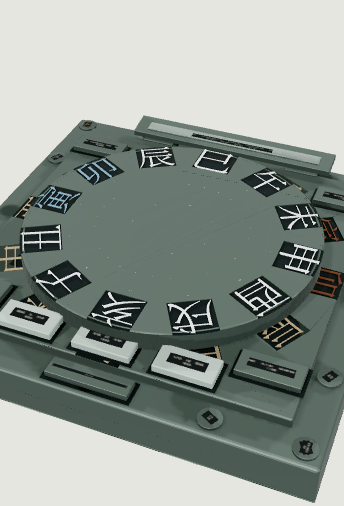
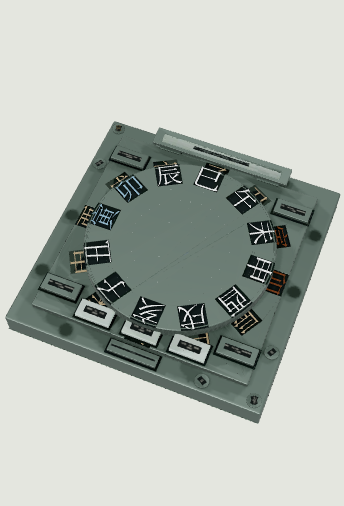
docs: record artifact verification round three

diff --git a/.superpowers/sdd/2026-08-29-daliuren-artifact-legibility-and-motion-redesign/task-8-report.md b/.superpowers/sdd/2026-08-29-daliuren-artifact-legibility-and-motion-redesign/task-8-report.md
@@ -2,14 +2,14 @@
 
 Date: 2026-08-30 (Asia/Shanghai)
 
-Status: COMPLETE after independent-review repair rounds 1–2/5. Graybox, master, baked authoring atlases, KTX2 runtime LODs, 15 review renders, three committed pure-canvas LOD captures, and benchmark evidence were verified from their generating sources. Every final automated gate passes. Round 2 changed runtime measurement/evidence and validation code only; no model or texture rebake was needed and no generated binary was patched directly.
+Status: COMPLETE after independent-review repair rounds 1–3/5. Graybox, master, baked authoring atlases, KTX2 runtime LODs, 15 review renders, three committed pure-canvas LOD captures, and benchmark evidence were verified from their generating sources. Every final automated gate passes. Rounds 2–3 changed runtime measurement, framing, evidence, and validation code only; no model or texture rebake was needed and no generated binary was patched directly.
 
 ## Outcome and final rulings
 
 - Graybox/master split: graybox contains exactly the 24 functional branch glyphs/beds; master adds all 47 historical inscriptions, for 71 inscriptions total. Graybox is 25,022 triangles against the fixed 35,000 ceiling. Runtime LOD budgets were not relaxed.
 - Static stage legibility: the calendar stage visibly raises the rear calendar slip into its two supports; the plate stage visibly rotates the heaven inscription ring by 60 degrees relative to the fixed earth ring. Four lessons and the initial/middle/final/method transmissions are separate, narrow, thick slips in individual shallow seats. They no longer form continuous wings, front panels, or a method rail.
-- Projection: `ArtifactSceneController` projects every actual branch-mesh vertex after its world transform. It no longer projects a world AABB, and `ArtifactExperience` exposes the raw floating-point minimum rather than a rounded integer. Floors remain desktop 20 CSS px and mobile 18 CSS px; final settled values are LOD0 `29.26424553334844 px`, LOD1 `20.012207523729835 px`, and LOD2 `19.488450529944718 px`. A unit fixture proves `19.99` cannot pass the desktop floor.
-- Camera ruling: the original 49.6 mm functional glyphs, 194/164 mm ring radii, plate sizes, and target `[0, 0.05, 0]` remain unchanged. An uncommitted 71 mm glyph / 149 mm ring experiment was stopped and fully reverted. With true-vertex and raw-float measurement, the prior default camera left LOD1 at `19.920843395738405 px`; moving the camera 0.5% closer along the same sightline still produced `19.99549609011798 px` and correctly failed. The minimal total move was therefore 0.6%, from `[0.31, 0.73, 0.77]` to `[0.3081, 0.7259, 0.7654]`. It passes without changing the view direction, glyph geometry, thresholds, protected subject areas, or callout guards. The two under-floor trials cost two additional focused browser runs and prevented a false rounded pass.
+- Projection: `ArtifactSceneController` projects every actual branch-mesh vertex after its world transform. It no longer projects a world AABB, and `ArtifactExperience` exposes the raw floating-point minimum rather than a rounded integer. Floors remain desktop 20 CSS px and mobile 18 CSS px; final settled values are LOD0 `29.26424553334844 px`, LOD1 `20.012207523729835 px`, and LOD2 `19.124706775338232 px`. A unit fixture proves `19.99` cannot pass the desktop floor. A second true-vertex metric requires every one of the 24 glyph meshes to stay at least 4 CSS px inside the canvas; the final LOD2 minimum is `56.59019821387625 px`.
+- Camera ruling: the original 49.6 mm functional glyphs, 194/164 mm ring radii, plate sizes, and desktop target `[0, 0.05, 0]` remain unchanged. An uncommitted 71 mm glyph / 149 mm ring experiment was stopped and fully reverted. With true-vertex and raw-float measurement, the prior default camera left LOD1 at `19.920843395738405 px`; moving the camera 0.5% closer along the same sightline still produced `19.99549609011798 px` and correctly failed. The minimal desktop move was therefore 0.6%, from `[0.31, 0.73, 0.77]` to `[0.3081, 0.7259, 0.7654]`. It passes without changing the view direction, glyph geometry, thresholds, protected subject areas, or callout guards. Round 3 proved that distance-only portrait moves of 5%, 8%, and 10% could not simultaneously contain the base and preserve 18 px glyph projection. The smallest verified portrait-only framing uses the same azimuth, a 60 degree elevation, 1.56 times distance, and a 16 mm camera-plus-target lateral shift; FOV, aspect, object geometry, and desktop framing remain unchanged. It preserves visible sidewall thickness, yields LOD2 `19.124706775338232 px`, and gives subject CSS margins `6 / 4 / 122.09 / 83.06 px` left/right/top/bottom. The rejected trials cost focused browser runs but prevented both a false rounded pass and a cropped mobile deliverable.
 - Runtime dark-sector ruling: the near-black fan was not AO or KTX damage. Runtime raycasts identified the underside triangle of `plate/heaven`; the timeline rotated an exported XZ plate around Z, flipping its underside toward the camera. In-plane rotation is now around Y. The initial shared-material/AO hypothesis cost one diagnostic export plus triangle/raycast inspection; no atlas gate was weakened and no binary was patched.
 - Tangents: textured LODs export explicit tangents for every normal-mapped primitive, with triangulation frozen across all beveled runtime nodes. The untextured graybox does not request tangents, eliminating irrelevant exporter warnings there.
 - Atlas: the original microface ceiling is restored to `2e-7 m2`. Missing owners must be individually enumerated and proven no larger than the ceiling; aggregate missing area remains bounded. Final LOD0 and LOD2 each have 4,037 islands, 4,036 represented owners, and only microface owner 1348 as the allowed exception.
@@ -58,7 +58,14 @@ The earlier generated commit `63f4c93` was the independently reviewed baseline a
 | Commit | Subject | Scope |
 | --- | --- | --- |
 | `0cc75a1` | `fix: harden artifact verification evidence` | Raw floating-point projection contract, minimal same-sightline camera correction, pure-canvas LOD capture/metrics, and KTX2 `vkFormat`/DFD validation with RED fixtures. |
-| round-2 evidence commit (this commit) | `docs: record artifact verification round two` | Three committed pure-canvas PNGs, final hardware benchmark JSON, runtime evidence index, and this updated report. |
+| `63a018c` | `docs: record artifact verification round two` | Three committed pure-canvas PNGs, hardware benchmark JSON, runtime evidence index, and the round-2 report. |
+
+### Independent-review repair round 3
+
+| Commit | Subject | Scope |
+| --- | --- | --- |
+| `abc375e` | `fix: keep mobile artifact inside canvas` | Portrait-only camera framing, true-vertex 24-glyph edge-margin metric, subject-margin gate, initialization ordering, and RED/GREEN tests. |
+| round-3 evidence commit (this commit) | `docs: record artifact verification round three` | Corrected pure-canvas LOD2 PNG, final hardware benchmark JSON, runtime evidence index, and this updated report. |
 
 ## Reproducible generation and validation
 
@@ -185,15 +192,15 @@ Numerical lookdev gate: mean luminance `0.374`, dark fraction `0.018`, functiona
 npx playwright test e2e/artifact-experience.spec.ts -g "model labels and text course|mobile review keeps|settled canvas" --workers=1 --reporter=html
 ```
 
-Result: PASS, 3/3 in 1.4 min. Every capture is read directly from the WebGL `HTMLCanvasElement` on the next rendered animation frame. The mobile tool drawer is closed first, but DOM pixels cannot enter the PNG in any case. The same gate derives the artifact subject rectangle from pixels differing from the known scene background and evaluates mean luminance, standard deviation, 5–95% range, and subject-region near-black fraction `<0.18`.
+Result: PASS, 3/3 in 1.5 min. Every capture is read directly from the WebGL `HTMLCanvasElement` on the next rendered animation frame. The mobile tool drawer is closed first, but DOM pixels cannot enter the PNG in any case. The same gate derives the artifact subject rectangle from columns/rows containing at least five foreground pixels, evaluates mean luminance, standard deviation, 5–95% range, and subject-region near-black fraction `<0.18`, and requires at least 4 CSS px of subject clearance on every edge. A separate true-mesh projection requires all 24 functional glyphs to remain at least 4 CSS px from every canvas edge.
 
-| LOD | Raw branch minimum / floor | Canvas and subject rectangle | Visible-face metrics | Committed evidence and observation |
+| LOD | Raw branch minimum / floor; branch edge minimum | Canvas, subject rectangle, and CSS margins L/R/T/B | Visible-face metrics | Committed evidence and observation |
 | --- | --- | --- | --- | --- |
-| LOD0 | `29.26424553334844 / 20 px` | `951 x 760`; `x=38..833, y=173..756` | mean `0.69235`, stddev `0.27033`, range `0.70196`, near-black `0.05765` | `docs/asset-reviews/runtime/runtime-lod0-canvas.png`: whole desktop artifact, continuous plate, readable rings, material separation, no DOM overlay or dark fan. |
-| LOD1 | `20.012207523729835 / 20 px` | `672 x 520`; `x=36..580, y=118..517` | mean `0.69982`, stddev `0.26691`, range `0.67843`, near-black `0.05325` | `docs/asset-reviews/runtime/runtime-lod1-canvas.png`: stable functional rings and surface response, no blank atlas region, DOM overlay, or black sector. |
-| LOD2 | `19.488450529944718 / 18 px` | `344 x 506`; `x=0..344, y=115..503` | mean `0.58302`, stddev `0.27978`, range `0.78431`, near-black `0.07717` | `docs/asset-reviews/runtime/runtime-lod2-canvas.png`: narrow portrait crop visibly retains center disk, functional ring, lessons, and transmissions; subject reaches the horizontal edges but no timeline or other DOM obscures it. |
+| LOD0 | `29.26424553334844 / 20 px`; edge `202.4384677565314 px` | `951 x 760`; `x=38..832, y=174..755`; `38.02 / 119.06 / 174.09 / 5.00 px` | mean `0.69235`, stddev `0.27033`, range `0.70196`, near-black `0.05767` | `docs/asset-reviews/runtime/runtime-lod0-canvas.png`: whole desktop artifact, continuous plate, readable rings, material separation, no DOM overlay or dark fan. |
+| LOD1 | `20.012207523729835 / 20 px`; edge `138.4365307799565 px` | `672 x 520`; `x=37..579, y=119..516`; `37.00 / 93.00 / 119.00 / 4.00 px` | mean `0.69982`, stddev `0.26691`, range `0.67843`, near-black `0.05398` | `docs/asset-reviews/runtime/runtime-lod1-canvas.png`: stable functional rings and surface response, no blank atlas region, DOM overlay, or black sector. |
+| LOD2 | `19.124706775338232 / 18 px`; edge `56.59019821387625 px` | `344 x 506`; `x=6..340, y=122..423`; `6.00 / 4.00 / 122.09 / 83.06 px` | mean `0.71917`, stddev `0.25706`, range `0.69020`, near-black `0.06642` | `docs/asset-reviews/runtime/runtime-lod2-canvas.png`: complete square base and sidewalls remain inside the portrait canvas; center disk, functional ring, lessons, and transmissions are visible without DOM obstruction or a dark sector. |
 
-All three committed PNGs were opened locally at original detail. The first attempted direct `canvas.toDataURL()` read happened before the WebGL frame and produced a blank RED capture; deferring the read to the next animation frame produced the GREEN evidence above. That diagnosis cost one focused browser run and did not require a model or texture rebake.
+All three committed PNGs were opened locally at original detail. The first attempted direct `canvas.toDataURL()` read happened before the WebGL frame and produced a blank RED capture; deferring the read to the next animation frame produced visible evidence. Independent review then correctly found that the earlier LOD2 subject rectangle `x=0..344` proved horizontal cropping despite passing brightness checks. The new 4 CSS px subject-margin RED failed at `0 px`; the corrected portrait framing produces the GREEN evidence above. Those diagnoses cost focused browser runs and did not require a model or texture rebake.
 
 ## Complete application gate
 
@@ -207,12 +214,12 @@ npm run benchmark:artifact
 
 Results:
 
-- `npm test -- --reporter=dot`: PASS, 56 files / 624 tests in 30.79 s. The component-focused subset passed 32/32, including the `19.99` projection rejection.
-- `npm run build`: PASS, TypeScript + Vite, 113 modules, 2.74 s.
+- `npm test -- --reporter=dot`: PASS, 56 files / 626 tests in 30.73 s. The focused Controller/Experience subset passed 55/55, including the `19.99` projection rejection, portrait-camera initialization, and 24-glyph edge-margin contract.
+- `npm run build`: PASS, TypeScript + Vite, 113 modules, 2.15 s.
 - `npm run test:asset-runner`: PASS, 5/5 in 5.282 s, including real Blender failure propagation and save/reopen.
 - First full Playwright repair run: 39/41 in 3.5 min. Two scenarios reached their final click at 30.2/30.3 s under seven-worker GPU contention; neither failed an assertion. Focused RED diagnosis ran the complete scenarios in 26.3/27.6 s and passed 2/2.
-- After the isolated 60-second total-budget change, round-1 focused GREEN was 2/2 in 55.1 s. The final round-2 focused pure-canvas/projection run passed 3/3 in 1.4 min, and final full Playwright passed 41/41 in 2.9 min.
-- The round-2 settled-canvas scenario completed in 41.7 s and retained the unchanged real 30-second byte-stability hold. LOD0/1/2 KTX2 loads, raw true-vertex projection floors, pure-canvas visible-face metrics, reduced motion, annotations, text round trips, 404 fallback, and WebGL-context-loss fallback all passed.
+- After the isolated 60-second total-budget change, round-1 focused GREEN was 2/2 in 55.1 s. The final round-3 focused pure-canvas/projection run passed 3/3 in 1.5 min, and final full Playwright passed 41/41 in 2.9 min.
+- The round-3 settled-canvas scenario retained the unchanged real 30-second byte-stability hold. LOD0/1/2 KTX2 loads, raw true-vertex projection floors, four-edge subject/glyph clearance, pure-canvas visible-face metrics, reduced motion, annotations, text round trips, 404 fallback, and WebGL-context-loss fallback all passed.
 - `npm run benchmark:artifact`: PASS on recognized NVIDIA hardware; details below.
 
 ## Hardware benchmark
@@ -222,7 +229,7 @@ Results:
 - `hardwareRenderer=true`; no SwiftShader, llvmpipe, software, unknown, or unavailable renderer was accepted.
 - Desktop: 1920 x 1080, DPR 1, LOD0, GLB 16,159,520 bytes, canvas 952 x 760, 300 samples, median 4.2 ms / `238.0952 FPS`, p95 8.4 ms, threshold 60 FPS, PASS.
 - Mobile: 390 x 844, DPR 3, LOD2, GLB 9,360,792 bytes, canvas 1036 x 1519, 300 samples, median 4.2 ms / `238.0952 FPS`, p95 4.3 ms, threshold 30 FPS, PASS.
-- Evidence: `docs/asset-reviews/runtime/benchmark.json`, generated at `2026-08-30T14:59:30.157Z`.
+- Evidence: `docs/asset-reviews/runtime/benchmark.json`, generated at `2026-08-30T15:47:59.297Z`.
 
 ## Generated sizes and contracts
 
@@ -253,9 +260,9 @@ All four GLBs contain 50 runtime nodes and final local-measured bounds `0.52 x 0
 - Scope: changes are limited to Task 8 geometry/pose sources, runtime visibility/projection, asset pipeline/validators/tests, generated assets, and their evidence. No publish, push, merge, NSIS install, runtime dependency, or unrelated refactor occurred.
 - Provenance: every `.blend`, `.glb`, atlas, and review PNG was generated by the documented commands. No binary was hand-edited.
 - Geometry: graybox 25,022 <35,000; LOD counts and `0.52 x 0.092 x 0.52 m` bounds pass. Calendar, plate rotation, individual slips/seats, recess raycasts, containment, separation, and stage differences are source-tested and visually inspected.
-- Projection/presentation: actual mesh vertices are measured and exposed without rounding. Final LOD0/1/2 minima are `29.26424553334844`, `20.012207523729835`, and `19.488450529944718 px`; all meet their unchanged 20/20/18 px floors. The camera moved only 0.6% along the existing sightline after the raw LOD1 result exposed a real shortfall. Task 7 protected-frame and annotation non-overlap tests pass.
+- Projection/presentation: actual mesh vertices are measured and exposed without rounding. Final LOD0/1/2 minima are `29.26424553334844`, `20.012207523729835`, and `19.124706775338232 px`; all meet their unchanged 20/20/18 px floors. The desktop camera moved only 0.6% along the existing sightline after the raw LOD1 result exposed a real shortfall. Portrait-only elevation/distance/lateral framing keeps the complete LOD2 subject at least 4 CSS px inside the canvas while all 24 glyph meshes remain at least `56.59019821387625 px` inside. Task 7 protected-frame and annotation non-overlap tests pass.
 - Textures: deterministic pin/hash, exact ETC1S/UASTC slot policy, `vkFormat=0`, DFD color-model validation, explicit tangents, `2e-7 m2` owner exceptions, frozen comparisons, browser loads, and file/texture budgets all pass.
-- Visual quality: 15/15 final renders and 3/3 committed pure-canvas runtime LOD frames were inspected. No unreadable, dead-black, flat, mechanical-wing/rail, coplanar, floating, or DOM-obscured rejection condition remains. The LOD2 subject reaches both horizontal canvas edges in the narrow portrait capture; its center disk, functional ring, lessons, and transmissions remain visible.
+- Visual quality: 15/15 final renders and 3/3 committed pure-canvas runtime LOD frames were inspected. Round 2's statement that no cropped rejection condition remained was incorrect: its LOD2 bounds touched both horizontal edges. The corrected LOD2 image contains the full square base and visible sidewalls with 6/4 CSS px horizontal clearance; no unreadable, cropped, dead-black, flat, mechanical-wing/rail, coplanar, floating, or DOM-obscured rejection condition remains in the final evidence.
 - Verification: unit, build, asset-runner, Node/Python toolchain, all Blender suites, four validators, frozen atlas, fixed lookdev, full 41 browser tests including the real 30-second hold, and recognized-hardware benchmark pass.
 
 ## Concerns / non-blocking observations
@@ -274,4 +281,4 @@ assets/daliuren/source/daliuren-artifact-graybox.blend1
 assets/daliuren/source/daliuren-artifact-master.blend1
 ```
 
-They are not recoverable as backups, but both canonical `.blend` files are reproducibly generated by the commands above. Final `git diff --check` passed. The generated-deliverables commit uses the exact required subject `feat: ship redesigned daliuren artifact assets`; the round-2 evidence commit is documentation/evidence-only. Final tracked status is clean; ignored local Playwright scratch is not part of the deliverable.
+They are not recoverable as backups, but both canonical `.blend` files are reproducibly generated by the commands above. Final `git diff --check` passed. The generated-deliverables commit uses the exact required subject `feat: ship redesigned daliuren artifact assets`; the round-2 and round-3 evidence commits are documentation/evidence-only. Final tracked status is clean; ignored local Playwright scratch is not part of the deliverable.

diff --git a/docs/asset-reviews/runtime/README.md b/docs/asset-reviews/runtime/README.md
@@ -27,13 +27,13 @@ Both profiles reported `hardwareRenderer: true` for the NVIDIA/D3D11 renderer.
 
 The three PNGs below are read directly from `HTMLCanvasElement` on the next rendered animation frame. No DOM, annotation, timeline, or tool-drawer pixels can enter them; the mobile drawer is also closed before capture. The subject rectangle is derived from canvas pixels that differ from the known scene background, and every LOD uses the same capture and metric path.
 
-| LOD | Raw minimum branch projection | Canvas | Subject rectangle | Mean / standard deviation | 5–95% range | Near-black ratio | Evidence |
-| --- | ---: | --- | --- | --- | ---: | ---: | --- |
-| LOD0 | `29.26424553334844 px` (floor `20`) | `951 x 760` | `x=38..833, y=173..756` | `0.69235 / 0.27033` | `0.70196` | `0.05765` | [`runtime-lod0-canvas.png`](./runtime-lod0-canvas.png) |
-| LOD1 | `20.012207523729835 px` (floor `20`) | `672 x 520` | `x=36..580, y=118..517` | `0.69982 / 0.26691` | `0.67843` | `0.05325` | [`runtime-lod1-canvas.png`](./runtime-lod1-canvas.png) |
-| LOD2 | `19.488450529944718 px` (floor `18`) | `344 x 506` | `x=0..344, y=115..503` | `0.58302 / 0.27978` | `0.78431` | `0.07717` | [`runtime-lod2-canvas.png`](./runtime-lod2-canvas.png) |
+| LOD | Raw minimum branch projection | Minimum branch edge margin | Canvas | Subject rectangle; CSS margins L/R/T/B | Mean / standard deviation | 5–95% range | Near-black ratio | Evidence |
+| --- | ---: | ---: | --- | --- | --- | ---: | ---: | --- |
+| LOD0 | `29.26424553334844 px` (floor `20`) | `202.4384677565314 px` (floor `4`) | `951 x 760` | `x=38..832, y=174..755`; `38.02 / 119.06 / 174.09 / 5.00 px` | `0.69235 / 0.27033` | `0.70196` | `0.05767` | [`runtime-lod0-canvas.png`](./runtime-lod0-canvas.png) |
+| LOD1 | `20.012207523729835 px` (floor `20`) | `138.4365307799565 px` (floor `4`) | `672 x 520` | `x=37..579, y=119..516`; `37.00 / 93.00 / 119.00 / 4.00 px` | `0.69982 / 0.26691` | `0.67843` | `0.05398` | [`runtime-lod1-canvas.png`](./runtime-lod1-canvas.png) |
+| LOD2 | `19.124706775338232 px` (floor `18`) | `56.59019821387625 px` (floor `4`) | `344 x 506` | `x=6..340, y=122..423`; `6.00 / 4.00 / 122.09 / 83.06 px` | `0.71917 / 0.25706` | `0.69020` | `0.06642` | [`runtime-lod2-canvas.png`](./runtime-lod2-canvas.png) |
 
-Local original-resolution inspection found no timeline/callout contamination and no near-black fan in any image. LOD0 preserves the whole desktop artifact and material hierarchy; LOD1 preserves the functional rings and stable surface response; LOD2's narrow portrait crop still visibly contains the center disk, functional branch ring, lessons, and transmissions. Its subject touches both horizontal canvas edges, which is recorded rather than described as an uncropped full-object view.
+Local original-resolution inspection found no timeline/callout contamination and no near-black fan in any image. LOD0 preserves the whole desktop artifact and material hierarchy; LOD1 preserves the functional rings and stable surface response. The corrected portrait LOD2 frame contains the complete square base and its sidewalls with `6 px` left and `4 px` right CSS clearance; the center disk, functional branch ring, lessons, and transmissions remain readable. The tests independently require at least `4 CSS px` around both the detected artifact subject and every projected vertex of all 24 functional glyph meshes.
 
 ## Browser behavior
 
